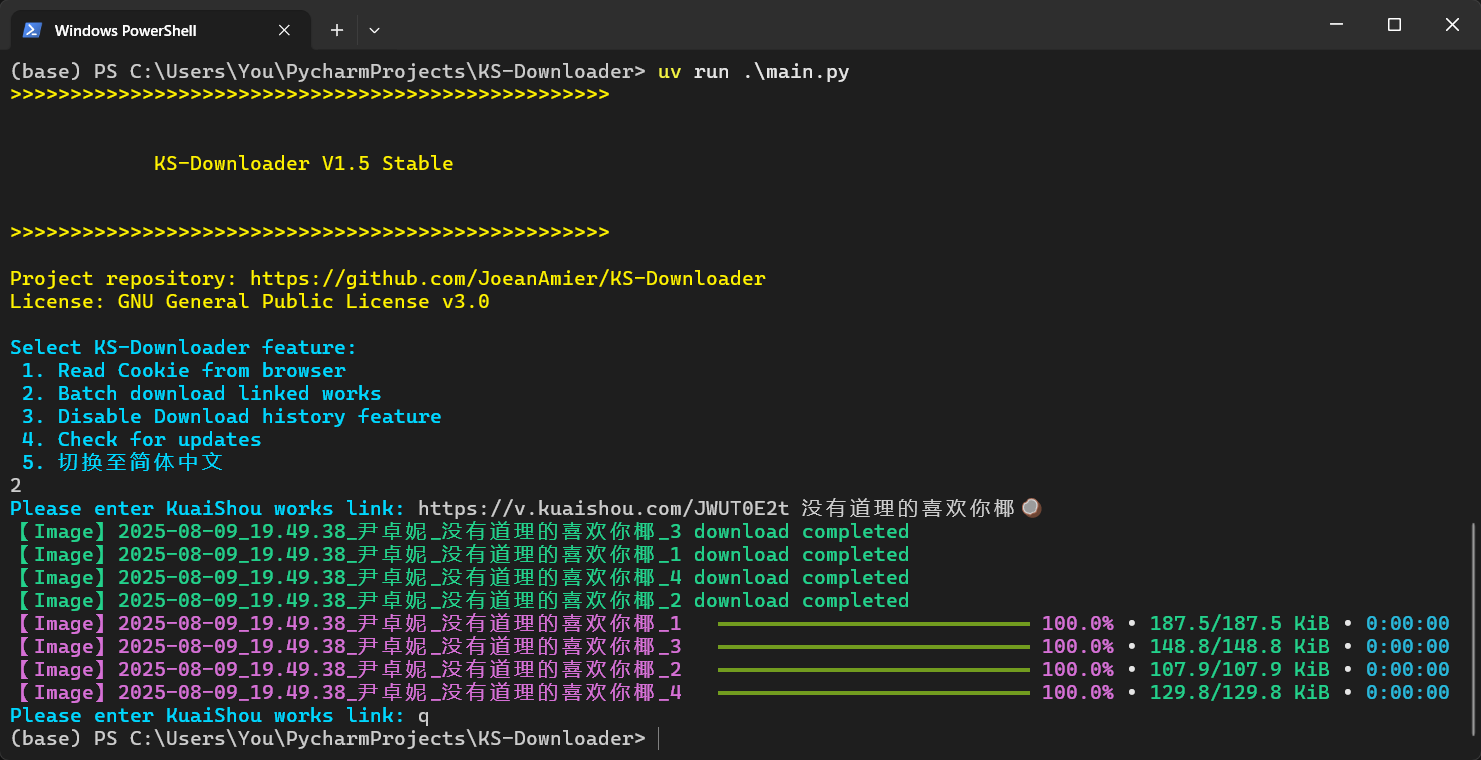
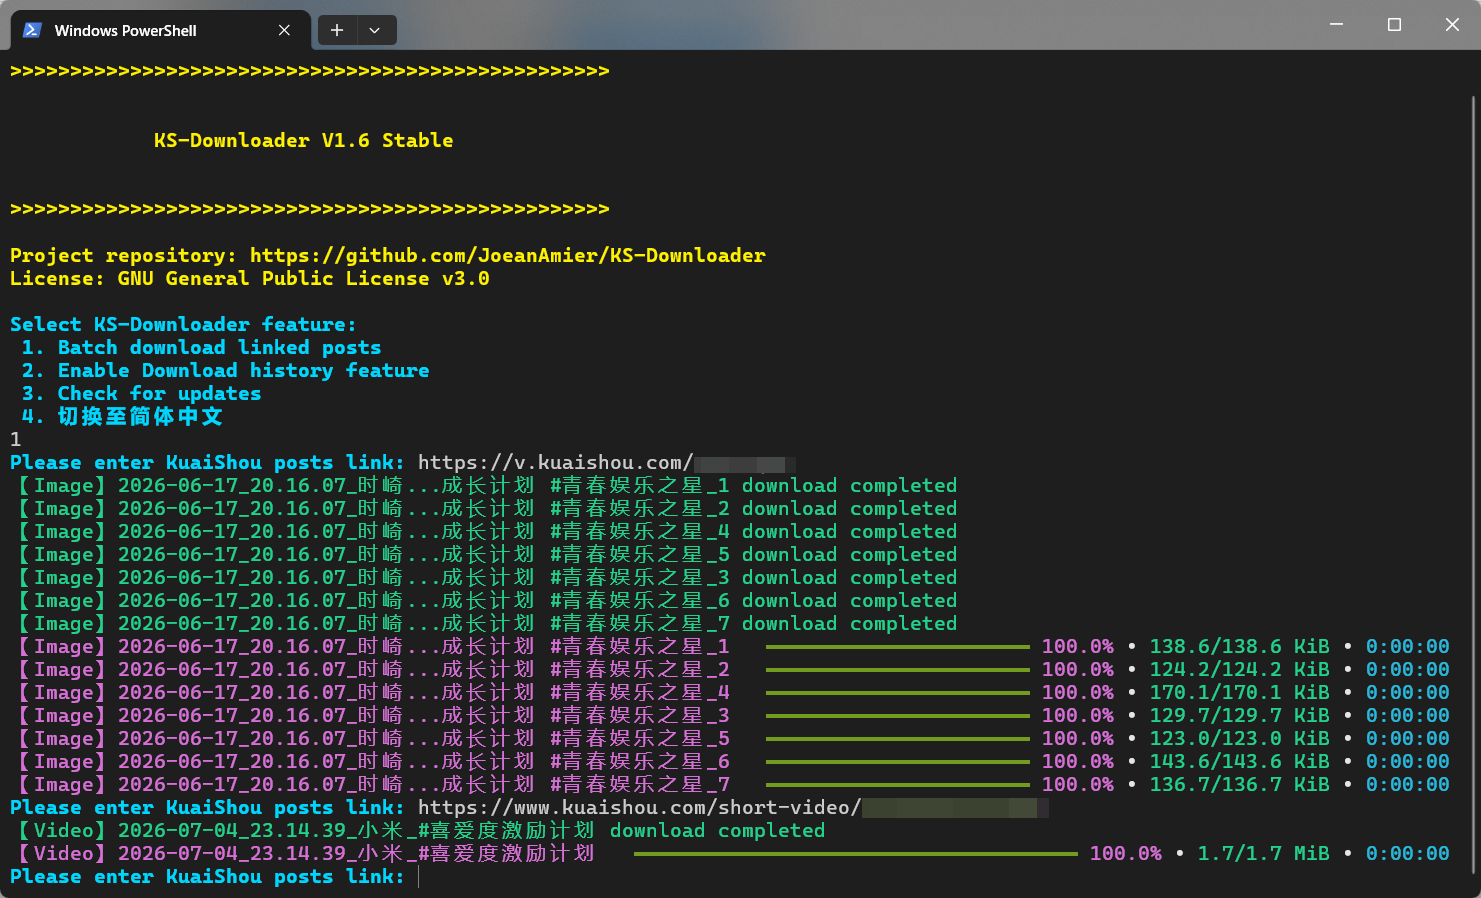
feat: 发布 1.6 版本

diff --git a/source/extract/extractor.py b/source/extract/extractor.py
@@ -153,15 +153,15 @@ class HTMLExtractor:
             "name": data.safe_extract(
                 "userName",
             ),
-            "music_name": data.safe_extract(
-                "music.name",
-            ),
-            "music_url": data.safe_extract(
-                "music.url",
-            ),
-            "music_artist": data.safe_extract(
-                "music.artist",
-            ),
+            # "music_name": data.safe_extract(
+            #     "music.name",
+            # ),
+            # "music_url": data.safe_extract(
+            #     "music.url",
+            # ),
+            # "music_artist": data.safe_extract(
+            #     "music.artist",
+            # ),
         }
 
     def __extract_detail_web(self, data: Namespace, id_: str) -> dict:

diff --git a/source/static/internal.py b/source/static/internal.py
@@ -4,7 +4,7 @@ PROJECT_ROOT = Path(__file__).resolve().parent.parent.parent.joinpath("Volume")
 PROJECT_ROOT.mkdir(exist_ok=True)
 VERSION_MAJOR = 1
 VERSION_MINOR = 6
-VERSION_BETA = True
+VERSION_BETA = False
 __VERSION__ = f"{VERSION_MAJOR}.{VERSION_MINOR}.{'beta' if VERSION_BETA else 'stable'}"
 PROJECT_NAME = f"KS-Downloader V{VERSION_MAJOR}.{VERSION_MINOR} {
     'Beta' if VERSION_BETA else 'Stable'

diff --git a/README.md b/README.md
@@ -316,6 +316,57 @@ A:
 
 A: 由于权限限制，您无法直接触发主仓库的 Actions。请通过 Fork 仓库的方式执行打包流程
 
+# 🌟 贡献指南
+
+**欢迎对本项目做出贡献！为了保持代码库的整洁、高效和易于维护，请仔细阅读以下指南，以确保您的贡献能够顺利被接受和整合。**
+
+* 在开始开发前，请从 `develop` 分支拉取最新的代码，以此为基础进行修改；这有助于避免合并冲突并保证您的改动基于最新的项目状态。
+* 如果您的更改涉及多个不相关的功能或问题，请将它们分成多个独立的提交或拉取请求。
+* 每个拉取请求应尽可能专注于单一功能或修复，以便于代码审查和测试。
+* 遵循现有的代码风格；请确保您的代码与项目中已有的代码风格保持一致；建议使用 Ruff 工具保持代码格式规范。
+* 编写可读性强的代码；添加适当的注释帮助他人理解您的意图。
+* 每个提交都应该包含一个清晰、简洁的提交信息，以描述所做的更改。提交信息应遵循以下格式：`<类型>: <简短描述>`
+* 当您准备提交拉取请求时，请优先将它们提交到 `develop` 分支；这是为了给维护者一个缓冲区，在最终合并到 `master`
+  分支之前进行额外的测试和审查。
+* 建议在开发前或遇到疑问时与作者沟通，确保开发方向一致，避免重复劳动或无效提交。
+
+**参考资料：**
+
+* [贡献者公约](https://www.contributor-covenant.org/zh-cn/version/2/1/code_of_conduct/)
+* [如何为开源做贡献](https://opensource.guide/zh-hans/how-to-contribute/)
+
+# ✉️ 联系作者
+
+<ul>
+<li>作者邮箱：[email redacted]</li>
+<li>作者微信: Downloader_Tools</li>
+<li>微信公众号: Downloader Tools</li>
+<li><b>Discord 社区</b>: <a href="https://discord.com/invite/ZYtmgKud9Y">点击加入社区</a></li>
+</ul>
+<p>✨ <b>作者的其他开源项目：</b></p>
+<ul>
+<li><b>DouK-Downloader（抖音、TikTok）</b>：<a href="https://github.com/JoeanAmier/TikTokDownloader">https://github.com/JoeanAmier/TikTokDownloader</a></li>
+<li><b>XHS-Downloader（小红书、XiaoHongShu、RedNote）</b>：<a href="https://github.com/JoeanAmier/XHS-Downloader">https://github.com/JoeanAmier/XHS-Downloader</a></li>
+</ul>
+
+# ♥️ 支持项目
+
+<p>如果 <b>KS-Downloader</b> 对您有帮助，请考虑为它点个 <b>Star</b> ⭐，感谢您的支持！</p>
+<table>
+<thead>
+<tr>
+<th align="center">微信(WeChat)</th>
+<th align="center">支付宝(Alipay)</th>
+</tr>
+</thead>
+<tbody><tr>
+<td align="center"><img src="./docs/微信赞助二维码.png" alt="微信赞助二维码" height="200" width="200"></td>
+<td align="center"><img src="./docs/支付宝赞助二维码.png" alt="支付宝赞助二维码" height="200" width="200"></td>
+</tr>
+</tbody>
+</table>
+<p>如果您愿意，可以考虑提供资助为 <b>KS-Downloader</b> 提供额外的支持！</p>
+
 # ⚠️ 免责声明
 
 <ol>
@@ -338,61 +389,10 @@ A: 由于权限限制，您无法直接触发主仓库的 Actions。请通过 Fo
 <li>作者保留在不另行通知的情况下更新本声明的权利，使用者持续使用即视为接受修订后的条款。</li>
 </ol>
 <b>在使用本项目的代码和功能之前，请您认真考虑并接受以上免责声明。如果您对上述声明有任何疑问或不同意，请不要使用本项目的代码和功能。如果您使用了本项目的代码和功能，则视为您已完全理解并接受上述免责声明，并自愿承担使用本项目的一切风险和后果。</b>
-
-# ✉️ 联系作者
-
-<ul>
-<li>作者邮箱：[email redacted]</li>
-<li>作者微信: Downloader_Tools</li>
-<li>微信公众号: Downloader Tools</li>
-<li><b>Discord 社区</b>: <a href="https://discord.com/invite/ZYtmgKud9Y">点击加入社区</a></li>
-</ul>
-<p>✨ <b>作者的其他开源项目：</b></p>
-<ul>
-<li><b>DouK-Downloader（抖音、TikTok）</b>：<a href="https://github.com/JoeanAmier/TikTokDownloader">https://github.com/JoeanAmier/TikTokDownloader</a></li>
-<li><b>XHS-Downloader（小红书、XiaoHongShu、RedNote）</b>：<a href="https://github.com/JoeanAmier/XHS-Downloader">https://github.com/JoeanAmier/XHS-Downloader</a></li>
-</ul>
 <h1>⭐ Star 趋势</h1>
 <p>
 <img alt="Star History Chart" src="https://api.star-history.com/svg?repos=JoeanAmier/KS-Downloader&amp;type=Timeline"/>
 </p>
-
-# ♥️ 支持项目
-
-<p>如果 <b>KS-Downloader</b> 对您有帮助，请考虑为它点个 <b>Star</b> ⭐，感谢您的支持！</p>
-<table>
-<thead>
-<tr>
-<th align="center">微信(WeChat)</th>
-<th align="center">支付宝(Alipay)</th>
-</tr>
-</thead>
-<tbody><tr>
-<td align="center"><img src="./docs/微信赞助二维码.png" alt="微信赞助二维码" height="200" width="200"></td>
-<td align="center"><img src="./docs/支付宝赞助二维码.png" alt="支付宝赞助二维码" height="200" width="200"></td>
-</tr>
-</tbody>
-</table>
-<p>如果您愿意，可以考虑提供资助为 <b>KS-Downloader</b> 提供额外的支持！</p>
-
-# 🌟 贡献指南
-
-**欢迎对本项目做出贡献！为了保持代码库的整洁、高效和易于维护，请仔细阅读以下指南，以确保您的贡献能够顺利被接受和整合。**
-
-* 在开始开发前，请从 `develop` 分支拉取最新的代码，以此为基础进行修改；这有助于避免合并冲突并保证您的改动基于最新的项目状态。
-* 如果您的更改涉及多个不相关的功能或问题，请将它们分成多个独立的提交或拉取请求。
-* 每个拉取请求应尽可能专注于单一功能或修复，以便于代码审查和测试。
-* 遵循现有的代码风格；请确保您的代码与项目中已有的代码风格保持一致；建议使用 Ruff 工具保持代码格式规范。
-* 编写可读性强的代码；添加适当的注释帮助他人理解您的意图。
-* 每个提交都应该包含一个清晰、简洁的提交信息，以描述所做的更改。提交信息应遵循以下格式：`<类型>: <简短描述>`
-* 当您准备提交拉取请求时，请优先将它们提交到 `develop` 分支；这是为了给维护者一个缓冲区，在最终合并到 `master`
-  分支之前进行额外的测试和审查。
-* 建议在开发前或遇到疑问时与作者沟通，确保开发方向一致，避免重复劳动或无效提交。
-
-**参考资料：**
-
-* [贡献者公约](https://www.contributor-covenant.org/zh-cn/version/2/1/code_of_conduct/)
-* [如何为开源做贡献](https://opensource.guide/zh-hans/how-to-contribute/)
 
 # 💡 项目参考
 

diff --git a/README_EN.md b/README_EN.md
@@ -339,55 +339,6 @@ A:
 A: Due to permission restrictions, you cannot directly trigger Actions from the main repository. Please use the forked
 repository to execute the build process
 
-<h1>⚠️ Disclaimer</h1>
-<ol>
-<li>The user's use of this project is entirely at their own discretion and responsibility. The author assumes no liability for any losses, claims, or risks arising from the user's use of this project.</li>
-<li>The code and functionalities provided by the author of this project are based on current knowledge and technological developments. The author strives to ensure the correctness and security of the code according to existing technical capabilities but does not guarantee that the code is entirely free of errors or defects.</li>
-<li>All third-party libraries, plugins, or services relied upon by this project follow their respective open-source or commercial licenses. Users must review and comply with those license agreements. The author assumes no responsibility for the stability, security, or compliance of third-party components.</li>
-<li>Users must strictly comply with the requirements of the <a href="https://github.com/JoeanAmier/KS-Downloader/blob/master/LICENSE">GNU General Public License v3.0</a> when using this project and properly indicate that the code was used under the <a href="https://github.com/JoeanAmier/KS-Downloader/blob/master/LICENSE">GNU General Public License v3.0</a>.</li>
-<li>When using the code and features of this project, users must independently research relevant laws and regulations and ensure their actions are legal and compliant. Any legal liabilities or risks arising from violations of laws and regulations shall be borne solely by the user.</li>
-<li>Users must not use this tool to engage in any activities that infringe intellectual property rights, including but not limited to downloading or distributing copyright-protected content without authorization. The developers do not participate in, support, or endorse any unauthorized acquisition or distribution of illegal content.</li>
-<li>This project assumes no responsibility for the compliance of any data processing activities (including collection, storage, and transmission) conducted by users. Users must comply with relevant laws and regulations and ensure that their processing activities are lawful and proper. Legal liabilities resulting from non-compliant operations shall be borne by the user.</li>
-<li>Under no circumstances may users associate the author, contributors, or other related parties of this project with their usage of the project, nor may they hold these parties responsible for any loss or damage arising from such usage.</li>
-<li>The author of this project will not provide a paid version of the KS-Downloader project, nor will they offer any commercial services related to the KS-Downloader project.</li>
-<li>Any secondary development, modification, or compilation based on this project is unrelated to the original author. The original author assumes no liability for any consequences resulting from such secondary development. Users bear full responsibility for all outcomes arising from such modifications.</li>
-<li>This project grants no patent licenses; if the use of this project leads to patent disputes or infringement, the user bears all associated risks and responsibilities. Without written authorization from the author or rights holder, users may not use this project for any commercial promotion, marketing, or re-licensing.</li>
-<li>The author reserves the right to terminate service to any user who violates this disclaimer at any time and may require them to destroy all obtained code and derivative works.</li>
-<li>The author reserves the right to update this disclaimer at any time without prior notice. Continued use of the project constitutes acceptance of the revised terms.</li>
-</ol>
-<b>Before using the code and functionalities of this project, please carefully consider and accept the above disclaimer. If you have any questions or disagree with the statement, please do not use the code and functionalities of this project. If you use the code and functionalities of this project, it is considered that you fully understand and accept the above disclaimer, and willingly assume all risks and consequences associated with the use of this project.</b>
-
-<h1>✉️ Contact the Author</h1>
-<ul>
-<li>Author's Email：[email redacted]</li>
-<li>Author's WeChat: Downloader_Tools</li>
-<li><b>Discord Community</b>: <a href="https://discord.com/invite/ZYtmgKud9Y">Click to Join the Community</a></li>
-</ul>
-<p>✨ <b>Other Open Source Projects by the Author:</b></p>
-<ul>
-<li><b>DouK-Downloader（抖音、TikTok）</b>：<a href="https://github.com/JoeanAmier/TikTokDownloader">https://github.com/JoeanAmier/TikTokDownloader</a></li>
-<li><b>XHS-Downloader（小红书、XiaoHongShu、RedNote）</b>：<a href="https://github.com/JoeanAmier/XHS-Downloader">https://github.com/JoeanAmier/XHS-Downloader</a></li>
-</ul>
-<h1>⭐ Star History</h1>
-<p>
-<img alt="Star History Chart" src="https://api.star-history.com/svg?repos=JoeanAmier/KS-Downloader&amp;type=Timeline"/>
-</p>
-<h1>♥️ Support the Project</h1>
-<p>If <b>KS-Downloader</b> has been helpful to you, please consider giving it a <b>Star</b> ⭐. Thank you for your support!</p>
-<table>
-<thead>
-<tr>
-<th align="center">微信(WeChat)</th>
-<th align="center">支付宝(Alipay)</th>
-</tr>
-</thead>
-<tbody><tr>
-<td align="center"><img src="./docs/微信赞助二维码.png" alt="微信赞助二维码" height="200" width="200"></td>
-<td align="center"><img src="./docs/支付宝赞助二维码.png" alt="支付宝赞助二维码" height="200" width="200"></td>
-</tr>
-</tbody>
-</table>
-<p>If you are willing, you may consider making a donation to provide additional support for <b>KS-Downloader</b>!</p>
 <h1>🌟 Contribution Guidelines</h1>
 <p><strong>Welcome to contributing to this project! To keep the codebase clean, efficient, and easy to maintain, please read the following guidelines carefully to ensure that your contributions can be accepted and integrated smoothly.</strong></p>
 <ul>
@@ -405,6 +356,54 @@ repository to execute the build process
 <li><a href="https://www.contributor-covenant.org/version/2/1/code_of_conduct/">Contributor Covenant</a></li>
 <li><a href="https://opensource.guide/how-to-contribute/">How to Contribute to Open Source</a></li>
 </ul>
+<h1>✉️ Contact the Author</h1>
+<ul>
+<li>Author's Email：[email redacted]</li>
+<li>Author's WeChat: Downloader_Tools</li>
+<li><b>Discord Community</b>: <a href="https://discord.com/invite/ZYtmgKud9Y">Click to Join the Community</a></li>
+</ul>
+<p>✨ <b>Other Open Source Projects by the Author:</b></p>
+<ul>
+<li><b>DouK-Downloader（抖音、TikTok）</b>：<a href="https://github.com/JoeanAmier/TikTokDownloader">https://github.com/JoeanAmier/TikTokDownloader</a></li>
+<li><b>XHS-Downloader（小红书、XiaoHongShu、RedNote）</b>：<a href="https://github.com/JoeanAmier/XHS-Downloader">https://github.com/JoeanAmier/XHS-Downloader</a></li>
+</ul>
+<h1>♥️ Support the Project</h1>
+<p>If <b>KS-Downloader</b> has been helpful to you, please consider giving it a <b>Star</b> ⭐. Thank you for your support!</p>
+<table>
+<thead>
+<tr>
+<th align="center">微信(WeChat)</th>
+<th align="center">支付宝(Alipay)</th>
+</tr>
+</thead>
+<tbody><tr>
+<td align="center"><img src="./docs/微信赞助二维码.png" alt="微信赞助二维码" height="200" width="200"></td>
+<td align="center"><img src="./docs/支付宝赞助二维码.png" alt="支付宝赞助二维码" height="200" width="200"></td>
+</tr>
+</tbody>
+</table>
+<p>If you are willing, you may consider making a donation to provide additional support for <b>KS-Downloader</b>!</p>
+<h1>⚠️ Disclaimer</h1>
+<ol>
+<li>The user's use of this project is entirely at their own discretion and responsibility. The author assumes no liability for any losses, claims, or risks arising from the user's use of this project.</li>
+<li>The code and functionalities provided by the author of this project are based on current knowledge and technological developments. The author strives to ensure the correctness and security of the code according to existing technical capabilities but does not guarantee that the code is entirely free of errors or defects.</li>
+<li>All third-party libraries, plugins, or services relied upon by this project follow their respective open-source or commercial licenses. Users must review and comply with those license agreements. The author assumes no responsibility for the stability, security, or compliance of third-party components.</li>
+<li>Users must strictly comply with the requirements of the <a href="https://github.com/JoeanAmier/KS-Downloader/blob/master/LICENSE">GNU General Public License v3.0</a> when using this project and properly indicate that the code was used under the <a href="https://github.com/JoeanAmier/KS-Downloader/blob/master/LICENSE">GNU General Public License v3.0</a>.</li>
+<li>When using the code and features of this project, users must independently research relevant laws and regulations and ensure their actions are legal and compliant. Any legal liabilities or risks arising from violations of laws and regulations shall be borne solely by the user.</li>
+<li>Users must not use this tool to engage in any activities that infringe intellectual property rights, including but not limited to downloading or distributing copyright-protected content without authorization. The developers do not participate in, support, or endorse any unauthorized acquisition or distribution of illegal content.</li>
+<li>This project assumes no responsibility for the compliance of any data processing activities (including collection, storage, and transmission) conducted by users. Users must comply with relevant laws and regulations and ensure that their processing activities are lawful and proper. Legal liabilities resulting from non-compliant operations shall be borne by the user.</li>
+<li>Under no circumstances may users associate the author, contributors, or other related parties of this project with their usage of the project, nor may they hold these parties responsible for any loss or damage arising from such usage.</li>
+<li>The author of this project will not provide a paid version of the KS-Downloader project, nor will they offer any commercial services related to the KS-Downloader project.</li>
+<li>Any secondary development, modification, or compilation based on this project is unrelated to the original author. The original author assumes no liability for any consequences resulting from such secondary development. Users bear full responsibility for all outcomes arising from such modifications.</li>
+<li>This project grants no patent licenses; if the use of this project leads to patent disputes or infringement, the user bears all associated risks and responsibilities. Without written authorization from the author or rights holder, users may not use this project for any commercial promotion, marketing, or re-licensing.</li>
+<li>The author reserves the right to terminate service to any user who violates this disclaimer at any time and may require them to destroy all obtained code and derivative works.</li>
+<li>The author reserves the right to update this disclaimer at any time without prior notice. Continued use of the project constitutes acceptance of the revised terms.</li>
+</ol>
+<b>Before using the code and functionalities of this project, please carefully consider and accept the above disclaimer. If you have any questions or disagree with the statement, please do not use the code and functionalities of this project. If you use the code and functionalities of this project, it is considered that you fully understand and accept the above disclaimer, and willingly assume all risks and consequences associated with the use of this project.</b>
+<h1>⭐ Star History</h1>
+<p>
+<img alt="Star History Chart" src="https://api.star-history.com/svg?repos=JoeanAmier/KS-Downloader&amp;type=Timeline"/>
+</p>
 
 # 💡 Project References
 